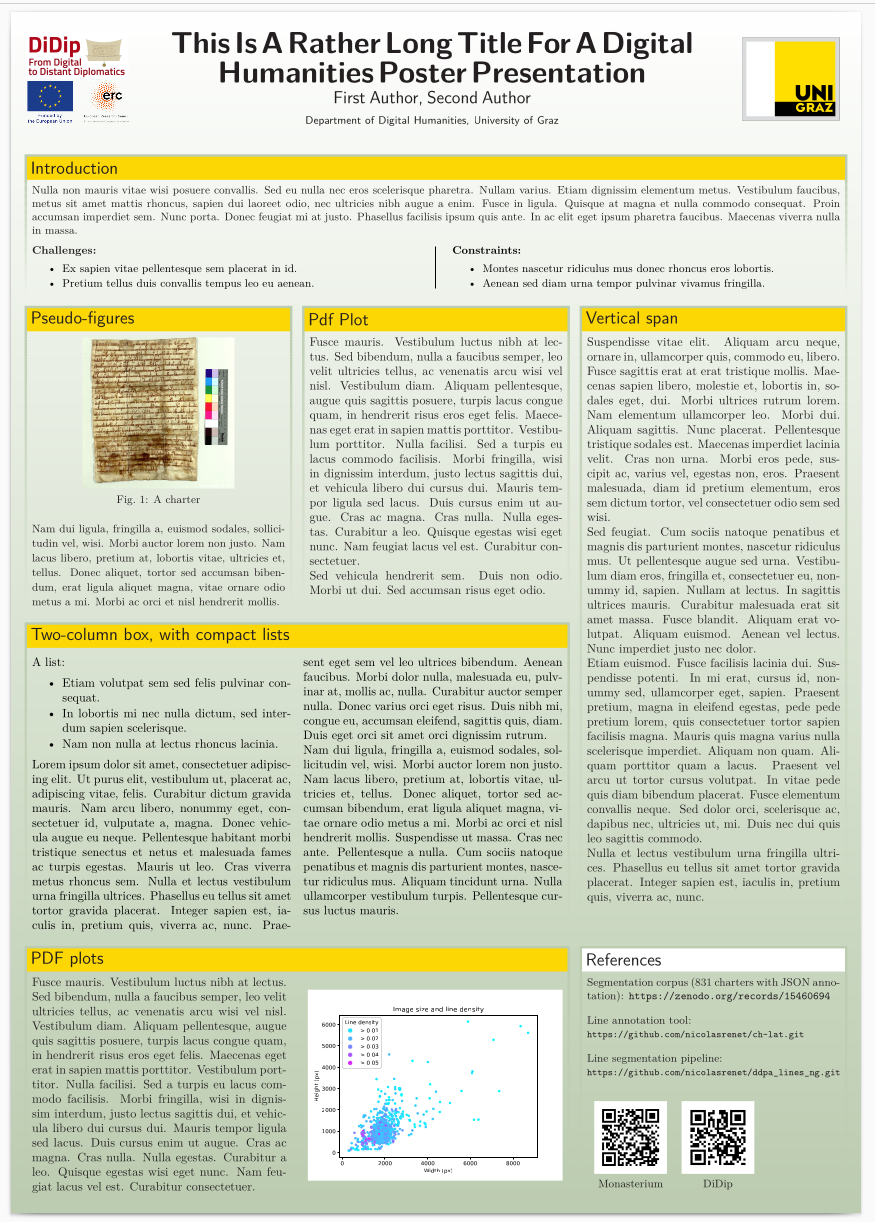
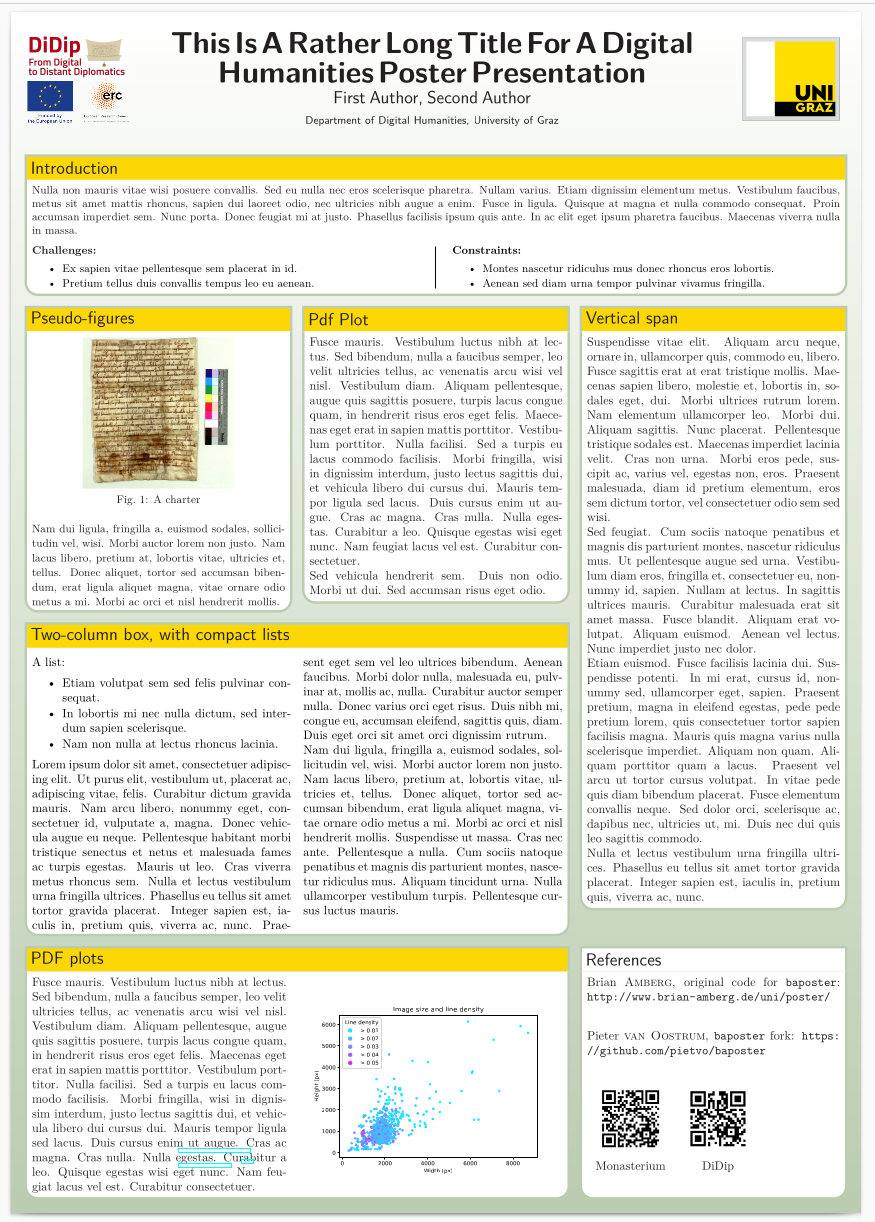
Reference box.

diff --git a/poster.tex b/poster.tex
@@ -9,7 +9,7 @@
 \documentclass[a0paper,portrait]{baposter}
 \usepackage{comment}
 \usepackage{multicol}
-\usepackage{wrapfig}
+\usepackage{hyperref} % for \url
 \usepackage{lmodern}
 \usepackage{lipsum,graphicx}
 \usepackage{multirow}
@@ -57,7 +57,7 @@ headerColorOne=graz_yellow, % Background color for the header in the content box
 headerColorTwo=graz_black, % Background color for the header in the content boxes (right side)
 headerFontColor=graz_black, % Text color for the header text in the content boxes
 boxColorOne=white, % Background color of the content boxes
-textborder=faded, %rectangle, % Format of the border around content boxes, can be: none, bars, coils, triangles, rectangle, rounded, roundedsmall, roundedright or faded
+textborder=rounded, % Format of the border around content boxes, can be: none, bars, coils, triangles, rectangle, rounded, roundedsmall, roundedright or faded
 eyecatcher=true, % Set to false for ignoring the left logo in the title and move the title left
 headerheight=0.11\textheight, % Height of the header
 headershape=rectangle, % Specify the rounded corner in the content box headers, can be: rectangle, small-rounded, roundedright, roundedleft or rounded
@@ -181,18 +181,12 @@ First Author, Second Author\\
 
 
 \begin{posterbox}[name=references,column=2,below=segmentation,span=1,above=bottom,headerColorOne=white]{References}
-\small
-	Segmentation corpus (831 charters with JSON annotation): \texttt{https://zenodo.org/records/15460694}
 
-\vspace{1em}
-	Line annotation tool: 
+	Brian {\sc Amberg}, original code for \texttt{baposter}:  \url{http://www.brian-amberg.de/uni/poster/}
+	\vspace{2em}
 
-	{\footnotesize \texttt{https://github.com/nicolasrenet/ch-lat.git}}
-\vspace{1em}
+	Pieter {\sc van Oostrum}, \texttt{baposter} fork: \url{https://github.com/pietvo/baposter}
 
-	Line segmentation pipeline:
-	
-	{\footnotesize \texttt{https://github.com/nicolasrenet/ddpa\_lines\_ng.git}}
 
 \vspace{2em}
 \centering
